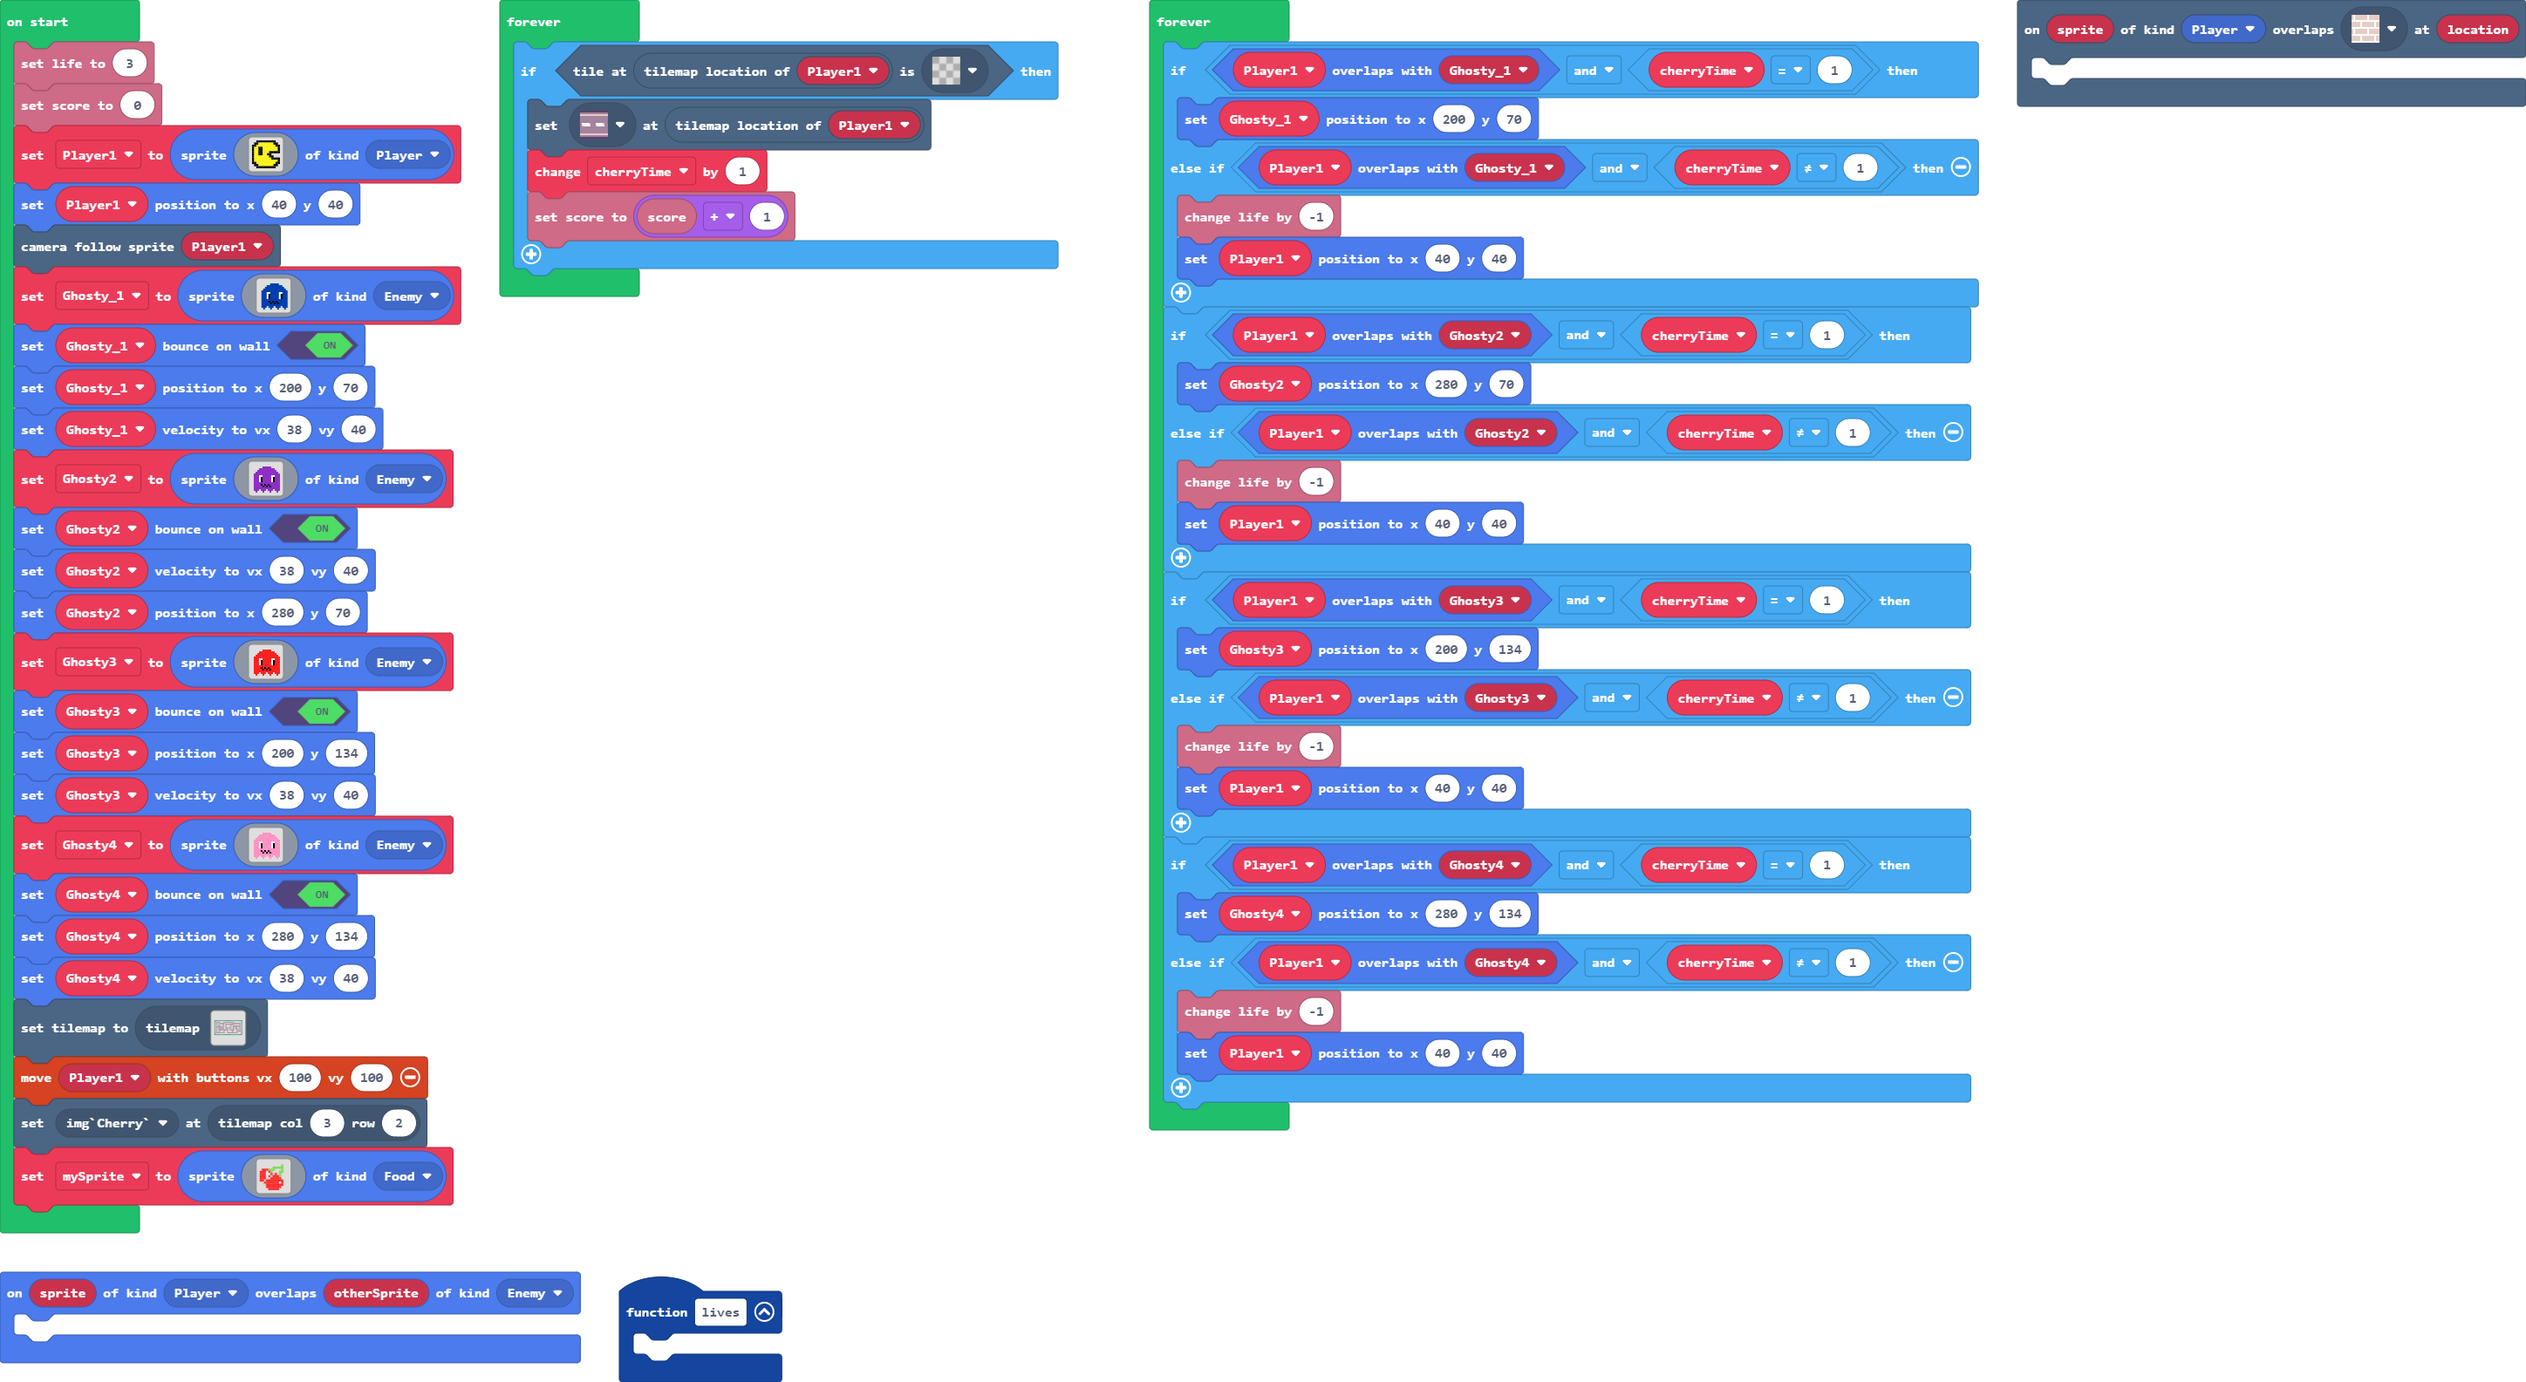
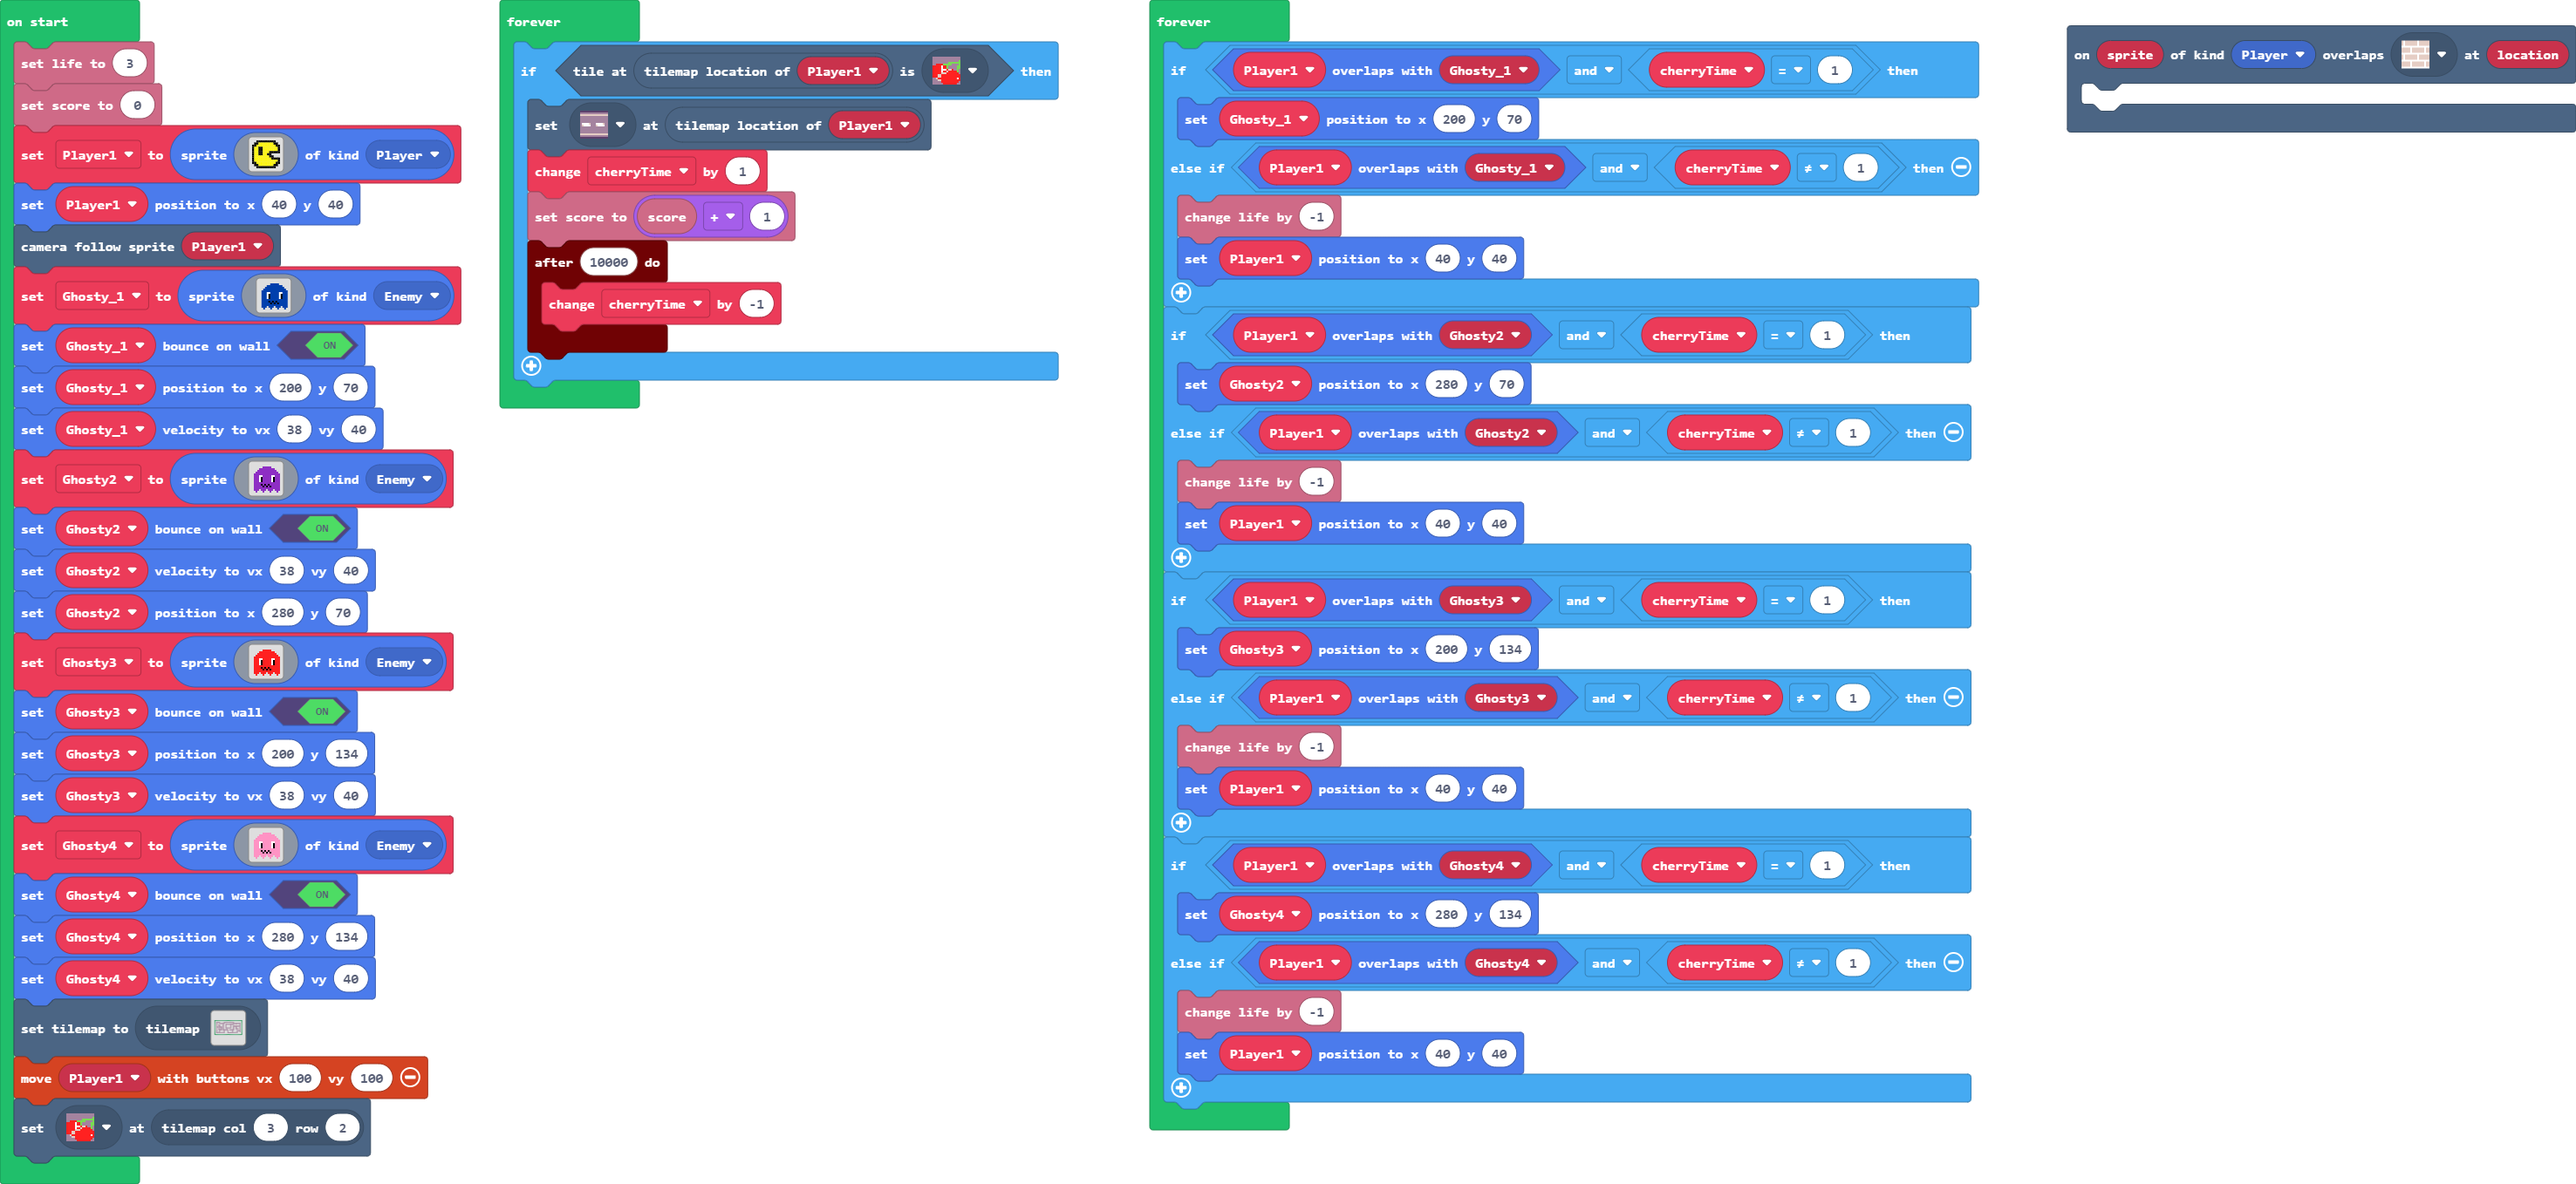
Update pxt.json, main.blocks, main.ts, tilemap.g.jres, tilemap.g.ts

diff --git a/tilemap.g.ts b/tilemap.g.ts
@@ -2,6 +2,8 @@
 namespace myTiles {
     //% fixedInstance jres blockIdentity=images._tile
     export const transparency16 = image.ofBuffer(hex``);
+    //% fixedInstance jres blockIdentity=images._tile
+    export const tile1 = image.ofBuffer(hex``);
 
     helpers._registerFactory("tilemap", function(name: string) {
         switch(helpers.stringTrim(name)) {
@@ -43,6 +45,25 @@ namespace myTiles {
 222222222222222222222222222222
 222222222222222222222222222222
 `, [myTiles.transparency16,sprites.builtin.forestTiles0,sprites.vehicle.roadHorizontal,sprites.vehicle.roadVertical,sprites.vehicle.roadIntersection2,sprites.vehicle.roadTurn4,sprites.vehicle.roadTurn2,sprites.vehicle.roadIntersection1,sprites.vehicle.roadIntersection3,sprites.builtin.brick,sprites.vehicle.roadTurn3,sprites.vehicle.roadTurn1,sprites.vehicle.roadIntersection4], TileScale.Sixteen);
+            case "level3":
+            case "level3":return tiles.createTilemap(hex`1000100000000000000000000000000000000000000000000000000000000000000000000000000000000000000000000000000000000000000000000000000000000000000000000000000000000000000000000000000000000000000000000000000000000000000000000000000000000000000000000000000000000000000000000000000000000000000000000000000000000000000000000000000000000000000000000000000000000000000000000000000000000000000000000000000000000000000000000000000000000000000000000000000000000000000000000000000000000000000000000000000000000000000000000000000000000000`, img`
+. . . . . . . . . . . . . . . . 
+. . . . . . . . . . . . . . . . 
+. . . . . . . . . . . . . . . . 
+. . . . . . . . . . . . . . . . 
+. . . . . . . . . . . . . . . . 
+. . . . . . . . . . . . . . . . 
+. . . . . . . . . . . . . . . . 
+. . . . . . . . . . . . . . . . 
+. . . . . . . . . . . . . . . . 
+. . . . . . . . . . . . . . . . 
+. . . . . . . . . . . . . . . . 
+. . . . . . . . . . . . . . . . 
+. . . . . . . . . . . . . . . . 
+. . . . . . . . . . . . . . . . 
+. . . . . . . . . . . . . . . . 
+. . . . . . . . . . . . . . . . 
+`, [myTiles.transparency16], TileScale.Sixteen);
         }
         return null;
     })
@@ -50,6 +71,8 @@ namespace myTiles {
     helpers._registerFactory("tile", function(name: string) {
         switch(helpers.stringTrim(name)) {
             case "transparency16":return transparency16;
+            case "CherryTile":
+            case "tile1":return tile1;
         }
         return null;
     })

diff --git a/main.ts b/main.ts
@@ -1,10 +1,4 @@
-function lives () {
-	
-}
 scene.onOverlapTile(SpriteKind.Player, sprites.builtin.brick, function (sprite, location) {
-	
-})
-sprites.onOverlap(SpriteKind.Player, SpriteKind.Enemy, function (sprite, otherSprite) {
 	
 })
 let cherryTime = 0
@@ -113,27 +107,15 @@ Ghosty4.setPosition(280, 134)
 Ghosty4.setVelocity(38, 40)
 tiles.setCurrentTilemap(tilemap`level2`)
 controller.moveSprite(Player1, 100, 100)
-tiles.setTileAt(tiles.getTileLocation(3, 2), img`Cherry`)
-let mySprite = sprites.create(img`
-    . . . . . . . . . . . . . 
-    . . . . . . . . . . 7 . . 
-    . . . . . . 7 7 7 7 7 . . 
-    . 2 2 2 7 7 7 . . . 7 . . 
-    2 2 2 1 2 7 . . . 7 7 . . 
-    2 2 2 1 1 2 d 2 . 7 . . . 
-    2 2 2 1 2 d 2 2 2 7 . . . 
-    2 2 2 d d 2 2 2 2 2 . . . 
-    2 2 d 2 2 2 2 2 2 2 2 . . 
-    . d 2 2 2 2 2 2 2 1 2 . . 
-    . . d 2 2 2 2 2 2 2 2 . . 
-    . . . 2 2 2 2 2 2 2 . . . 
-    . . . . 2 2 2 2 2 . . . . 
-    `, SpriteKind.Food)
+tiles.setTileAt(tiles.getTileLocation(3, 2), assets.tile`CherryTile`)
 forever(function () {
-    if (tiles.tileAtLocationEquals(Player1.tilemapLocation(), assets.tile`transparency16`)) {
+    if (tiles.tileAtLocationEquals(Player1.tilemapLocation(), assets.tile`CherryTile`)) {
         tiles.setTileAt(Player1.tilemapLocation(), sprites.vehicle.roadHorizontal)
         cherryTime += 1
         info.setScore(info.score() + 1)
+        timer.after(10000, function () {
+            cherryTime += -1
+        })
     }
 })
 forever(function () {
